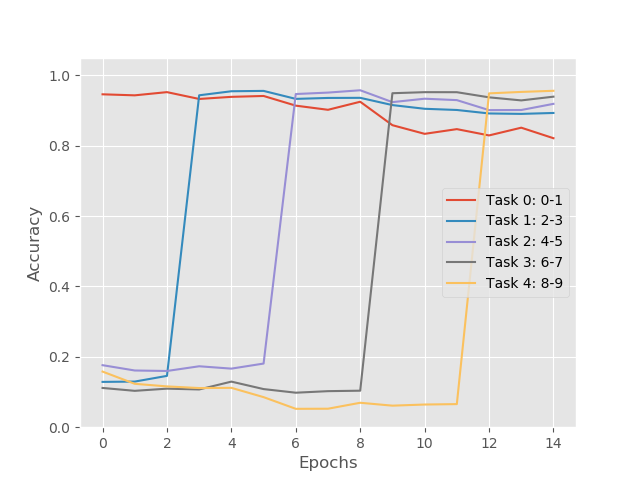
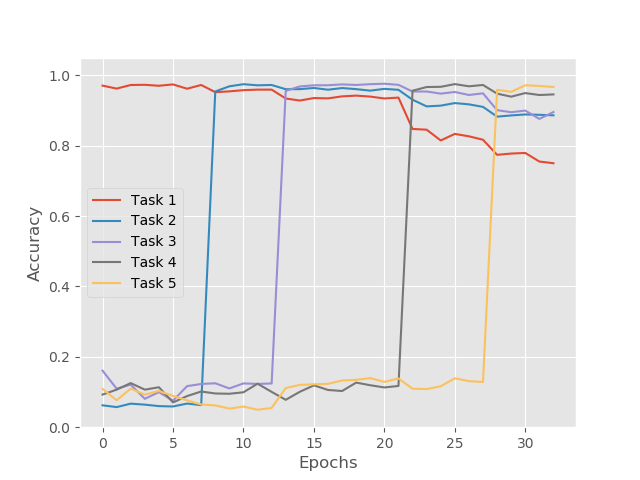
Added Fashion MNIST

diff --git a/train.py b/train.py
@@ -45,7 +45,7 @@ def test(args, model, device, test_loader, loss_fn, val=False):
 
     return test_loss, acc
 
-def fit(args, model, device, optimizer, loss_fn, numbers_list, task_id):
+def fit(args, model, device, optimizer, loss_fn, labels_list, task_id):
     # Dataset Loader
     train_loader = get_loader(task_id, args, device, 'train')
     val_loader = get_loader(task_id, args, device, 'val')
@@ -58,7 +58,7 @@ def fit(args, model, device, optimizer, loss_fn, numbers_list, task_id):
     # Training loop
     for epoch in range(1, args.epochs + 1):
         # Prepare model for current task
-        model.set_range(numbers_list[task_id])
+        model.set_range(labels_list[task_id])
         train(args, model, device, train_loader, optimizer, epoch, loss_fn)
         _, val_acc = test(args, model, device, val_loader, loss_fn, val=True)
         if val_acc > best_val_acc:
@@ -71,11 +71,11 @@ def fit(args, model, device, optimizer, loss_fn, numbers_list, task_id):
                 break
 
         # Evaluate all tasks on test set
-        test_accs = np.zeros(len(numbers_list))
-        for j, numbers in enumerate(numbers_list):
+        test_accs = np.zeros(len(labels_list))
+        for j, labels in enumerate(labels_list):
             # Prepare model and dataset for the task j
             loader = get_loader(j, args, device, 'test')
-            model.set_range(numbers)
+            model.set_range(labels)
 
             _, test_accs[j] = test(args, model, device, loader, loss_fn)
         all_test_accs.append(test_accs)
@@ -89,7 +89,13 @@ def get_loader(task_id, args, device, split):
                            transforms.ToTensor(),
                            transforms.Normalize((0.1307,), (0.3081,))
                        ])
-    Dataset = mnist.SplitMNIST if args.dataset == 'splitMNIST' else mnist.PermutedMNIST
+    if args.dataset=='splitMNIST':
+        Dataset = mnist.SplitMNIST
+    elif args.dataset=='fashionMNIST':
+        Dataset = mnist.FashionMNIST
+    elif args.dataset=='permutedMNIST':
+        Dataset = mnist.PermutedMNIST
+    
     if split == 'train':
         trainval = Dataset('data', task_id, train=True, download=True, transform=trans)
         dataset = mnist.getTrain(trainval)
@@ -98,6 +104,7 @@ def get_loader(task_id, args, device, split):
         dataset = mnist.getVal(trainval)
     else:
         dataset = Dataset('data', task_id, train=False, download=True, transform=trans)
+    
     batch_size = args.batch_size if train else args.test_batch_size
     if batch_size == None:
         batch_size = len(dataset)
@@ -125,8 +132,8 @@ def get_loss_fn(args, device, model, old_model=None):
     if args.model == "vcl":
         return VCL_loss(model, old_model).to(device)
 
-def get_model_path(numbers, model_name):
-    dirname = "{}-{}".format(numbers[0], numbers[-1])
+def get_model_path(labels, model_name):
+    dirname = "{}-{}".format(labels[0], labels[-1])
     dirpath = os.path.join(os.getcwd(),'ckpts', dirname)
     if not (os.path.exists(dirpath)):
         os.mkdir(dirpath)
@@ -157,8 +164,8 @@ def main():
                         help='how many batches to wait before logging training status')
     parser.add_argument('--model', type=str, default='vcl',
                         help="model type (dnn or cnn or vcl)")
-    parser.add_argument('--dataset', type=str, default='permutedMNIST',
-                        help="dataset type (splitMNIST or permutedMNIST")
+    parser.add_argument('--dataset', type=str, default='fashionMNIST',
+                        help="dataset type (splitMNIST or permutedMNIST or fashionMNIST")
     parser.add_argument('--save-model', action='store_true', default=True,
                         help='For Saving the current Model')
     args = parser.parse_args()
@@ -169,11 +176,11 @@ def main():
     device = torch.device("cuda" if use_cuda else "cpu")
 
     # Initialize Training Stuff
-    assert args.dataset in ["splitMNIST", "permutedMNIST"]
-    if args.dataset == "splitMNIST":
-        numbers_list = [[0, 1], [2, 3], [4, 5], [6, 7], [8, 9]]
+    assert args.dataset in ["splitMNIST", "permutedMNIST", 'fashionMNIST']
+    if args.dataset == "splitMNIST" or args.dataset == 'fashionMNIST':
+        labels_list = [[0, 1], [2, 3], [4, 5], [6, 7], [8, 9]]
     elif args.dataset == 'permutedMNIST':
-        numbers_list = [list(range(10))] * 5
+        labels_list = [list(range(10))] * 5
     
     task_final_accs = np.zeros((5, 5)) # Test accuracy after each task ends
     all_accs = [] # Test accuracy after every epoch
@@ -183,11 +190,11 @@ def main():
     model, name = get_model(args, device, MLE=True)
     loss_fn = get_loss_fn(args, device, model)
     optimizer = optim.Adam(model.parameters(), lr=args.lr)
-    fit(args, model, device, optimizer, loss_fn, numbers_list, 0)
+    fit(args, model, device, optimizer, loss_fn, labels_list, 0)
 
     # train all tasks incrementally
-    for task_id, numbers in enumerate(numbers_list):
-        print ("===========TASK {}: {}=============".format(task_id + 1, numbers))
+    for task_id, labels in enumerate(labels_list):
+        print ("===========TASK {}: {}=============".format(task_id + 1, labels))
         # Model
         old_model = model
         model, model_name = get_model(args, device)
@@ -197,12 +204,12 @@ def main():
         optimizer = optim.Adam(model.parameters(), lr=args.lr)
 
         # Fit
-        best_state, test_accs = fit(args, model, device, optimizer, loss_fn, numbers_list, task_id)
+        best_state, test_accs = fit(args, model, device, optimizer, loss_fn, labels_list, task_id)
         task_final_accs[task_id] = test_accs[-1]
         all_accs.extend(test_accs)
 
         # save model
-        path = get_model_path(numbers, model_name)
+        path = get_model_path(labels, model_name)
         torch.save(best_state, path)
 
     utils.plot_small(task_final_accs, args.dataset)

diff --git a/mnist.py b/mnist.py
@@ -70,15 +70,24 @@ class SplitMNIST(datasets.MNIST):
         self.targets = self.targets[index]
         self.data = self.data[index]
 
-def test0():
-    Mnist = SplitMNIST("data", 0, download=True)
-    print(Mnist.targets.size())
+class FashionMNIST(SplitMNIST):
+    urls = [
+        'http://fashion-mnist.s3-website.eu-central-1.amazonaws.com/train-images-idx3-ubyte.gz',
+        'http://fashion-mnist.s3-website.eu-central-1.amazonaws.com/train-labels-idx1-ubyte.gz',
+        'http://fashion-mnist.s3-website.eu-central-1.amazonaws.com/t10k-images-idx3-ubyte.gz',
+        'http://fashion-mnist.s3-website.eu-central-1.amazonaws.com/t10k-labels-idx1-ubyte.gz',
+    ]
+    classes = ['T-shirt/top', 'Trouser', 'Pullover', 'Dress', 'Coat', 'Sandal',
+               'Shirt', 'Sneaker', 'Bag', 'Ankle boot']
 
+def test0(Dataset):
+    ds = Dataset("data", 0, download=True)
+    print(ds.targets.size())
 
-def test1():
-    Mnist = SplitMNIST("data", 0, download=True)
-    train_dataset = getTrain(Mnist)
-    val_dataset = getVal(Mnist)
+def test1(Dataset):
+    ds = Dataset("data", 0, download=True)
+    train_dataset = getTrain(ds)
+    val_dataset = getVal(ds)
     print('train size:', len(train_dataset))
     print('val size:', len(val_dataset))
     im = val_dataset[0][0]
@@ -99,6 +108,8 @@ def test2():
     im.show()
 
 if __name__ == "__main__":
-    test0()
-    test1()
+    test0(SplitMNIST)
+    test0(FashionMNIST)
+    test1(SplitMNIST)
+    test1(FashionMNIST)
     test2()
